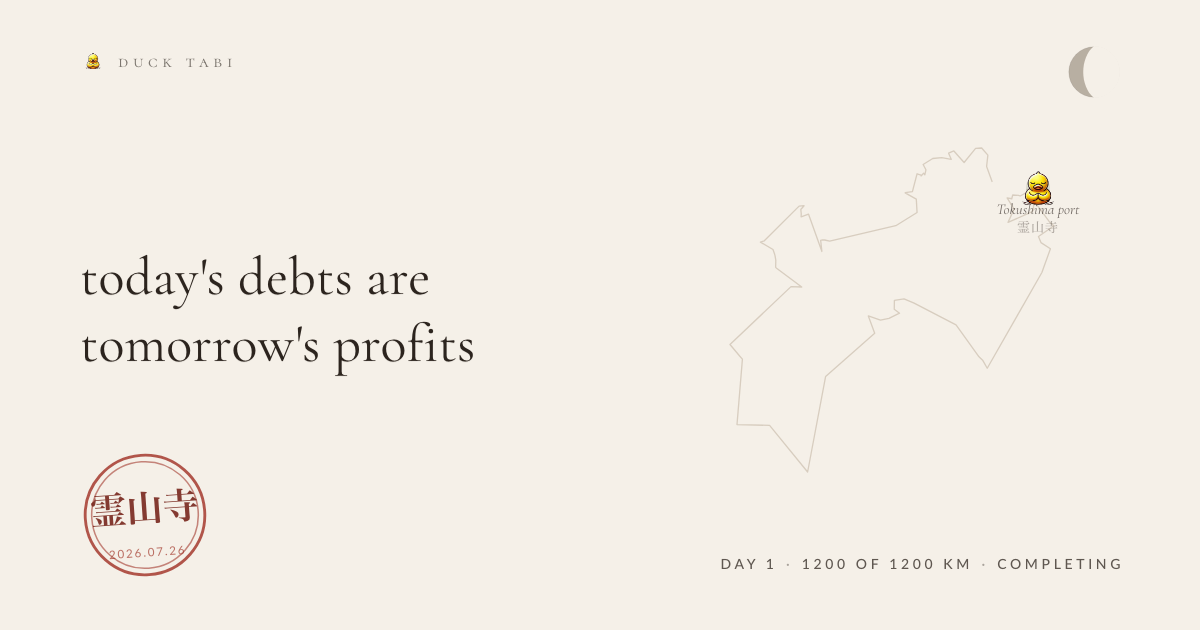
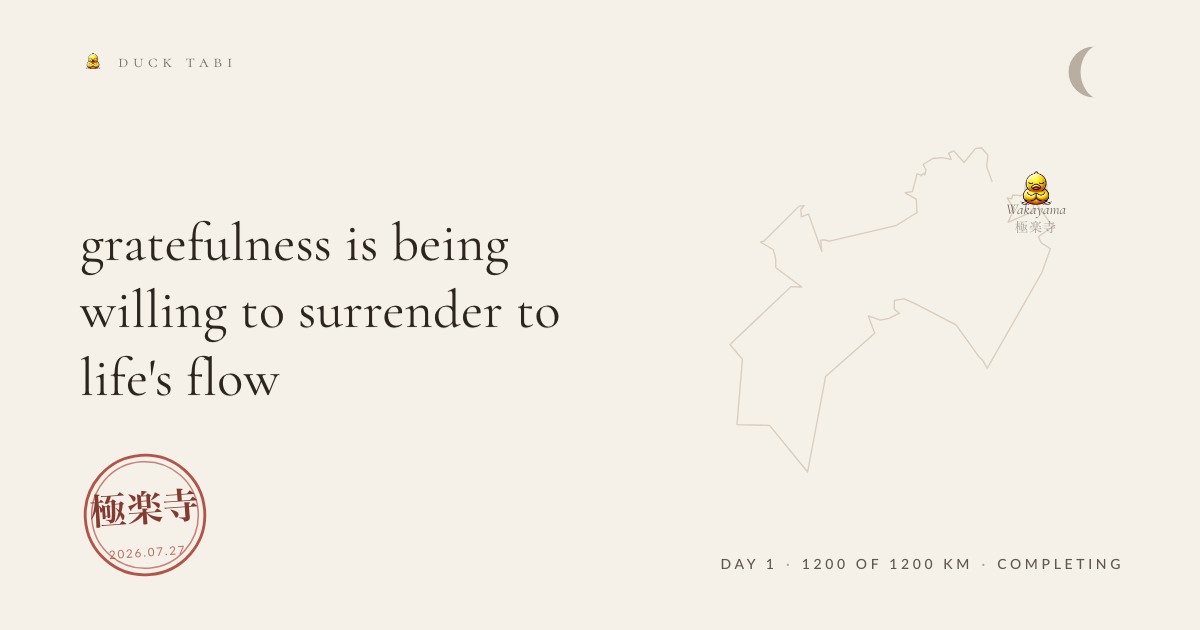
the duck walks

Changed region(s): [[0.0617, 0.3619, 0.4625, 0.6333], [0.8325, 0.2714, 0.8942, 0.3619], [0.0617, 0.7841, 0.1542, 0.8444]]

diff --git a/entries/2026-07-27-meditation.md b/entries/2026-07-27-meditation.md
@@ -1,0 +1,14 @@
+---
+date: '2026-07-27'
+route: shikoku-88
+stage: 2
+stageName: Wakayama
+coords: [135.17, 34.23]
+kind: meditation
+glyph: ⛩
+weather: overcast, 28°C
+kmFromStart: 1.4
+heardId: aa9c238d
+---
+
+gratefulness is being willing to surrender to life's flow
